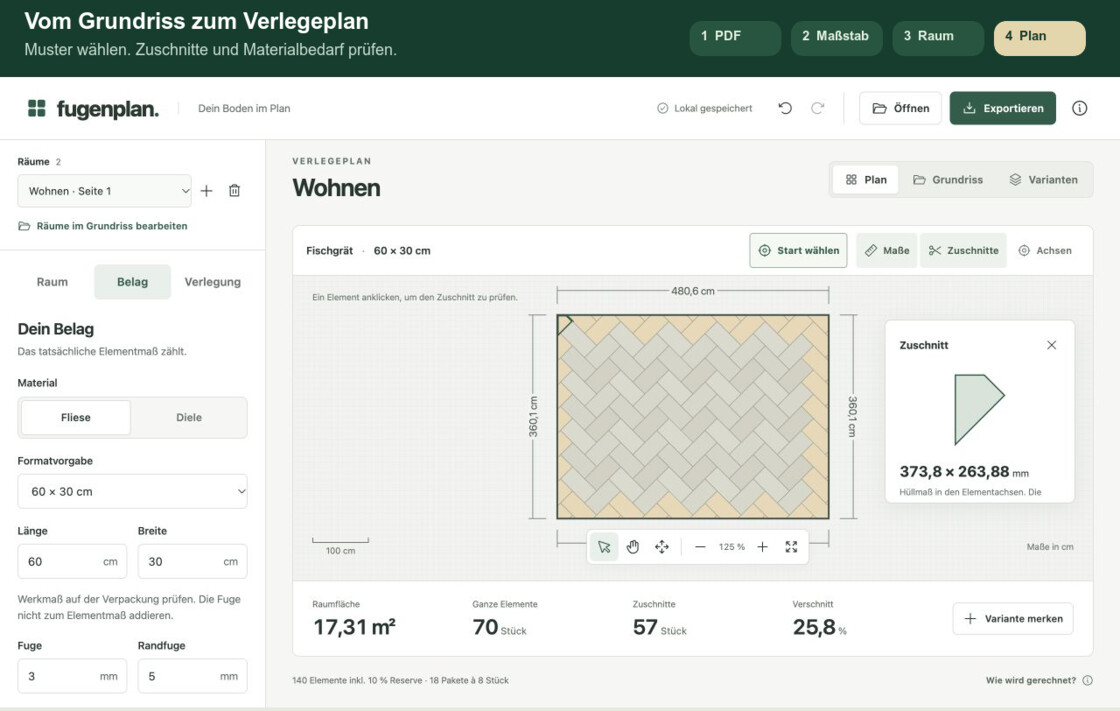
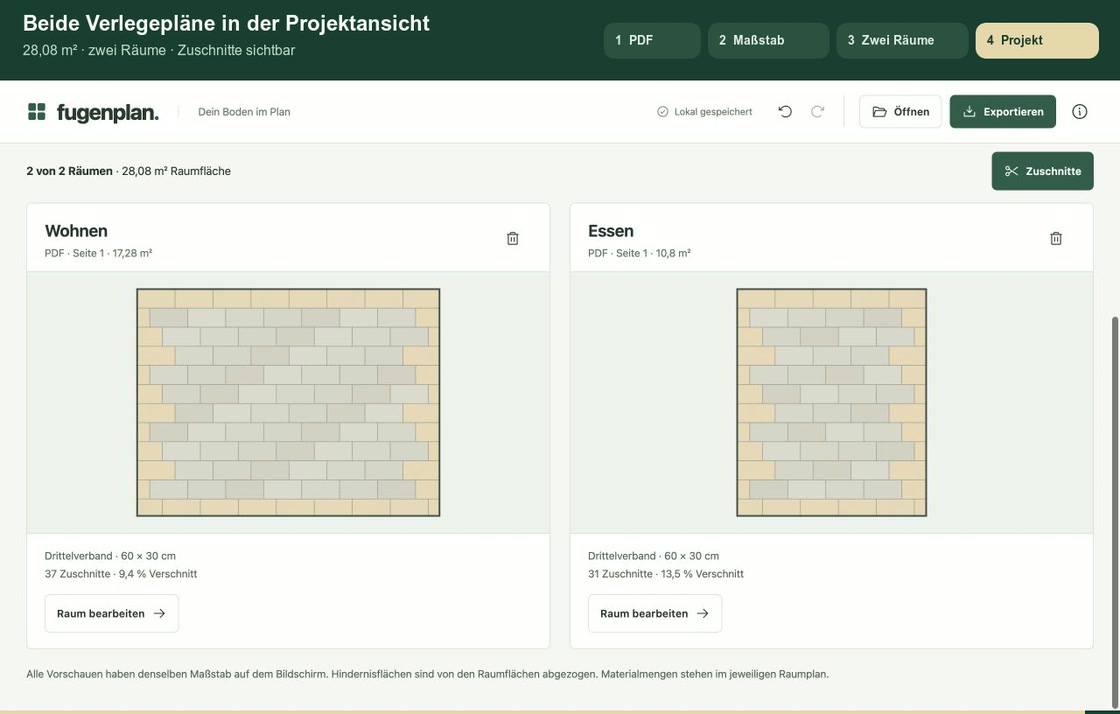
docs: Demo-GIF mit PDF-Assistent und zwei Räumen aktualisieren

diff --git a/README.md b/README.md
@@ -13,11 +13,11 @@ Plane Fliesen und Dielen direkt im Browser. Übernimm deinen PDF-Grundriss,<br>p
 <a href="screenshots/demo-pdf.gif">
   <picture>
     <source media="(prefers-reduced-motion: reduce)" srcset="screenshots/demo-pdf-poster.jpg">
-    <img src="screenshots/demo-pdf.gif" alt="Demo in der echten Oberfläche: PDF öffnen, zwei Wandpunkte markieren, 480 cm als Länge speichern, Raumecken markieren und den Verlegeplan mit Zuschnitten prüfen." width="1120">
+    <img src="screenshots/demo-pdf.gif" alt="Demo der neuen Oberfläche: PDF laden, zwei Wandpunkte markieren, 480 cm als Länge speichern, die Räume Wohnen und Essen markieren und beide Verlegepläne mit Zuschnitten gemeinsam in der Projektansicht ansehen." width="1120">
   </picture>
 </a>
 
-*PDF laden → Wandmaß setzen → Raum markieren → Verlegeplan prüfen.*
+*PDF laden → Wandmaß setzen → Zwei Räume markieren → Beide Verlegepläne gemeinsam ansehen.*
 
 Demo mit einem synthetischen Beispielgrundriss. [Standbild ansehen](screenshots/demo-pdf-poster.jpg)
 
